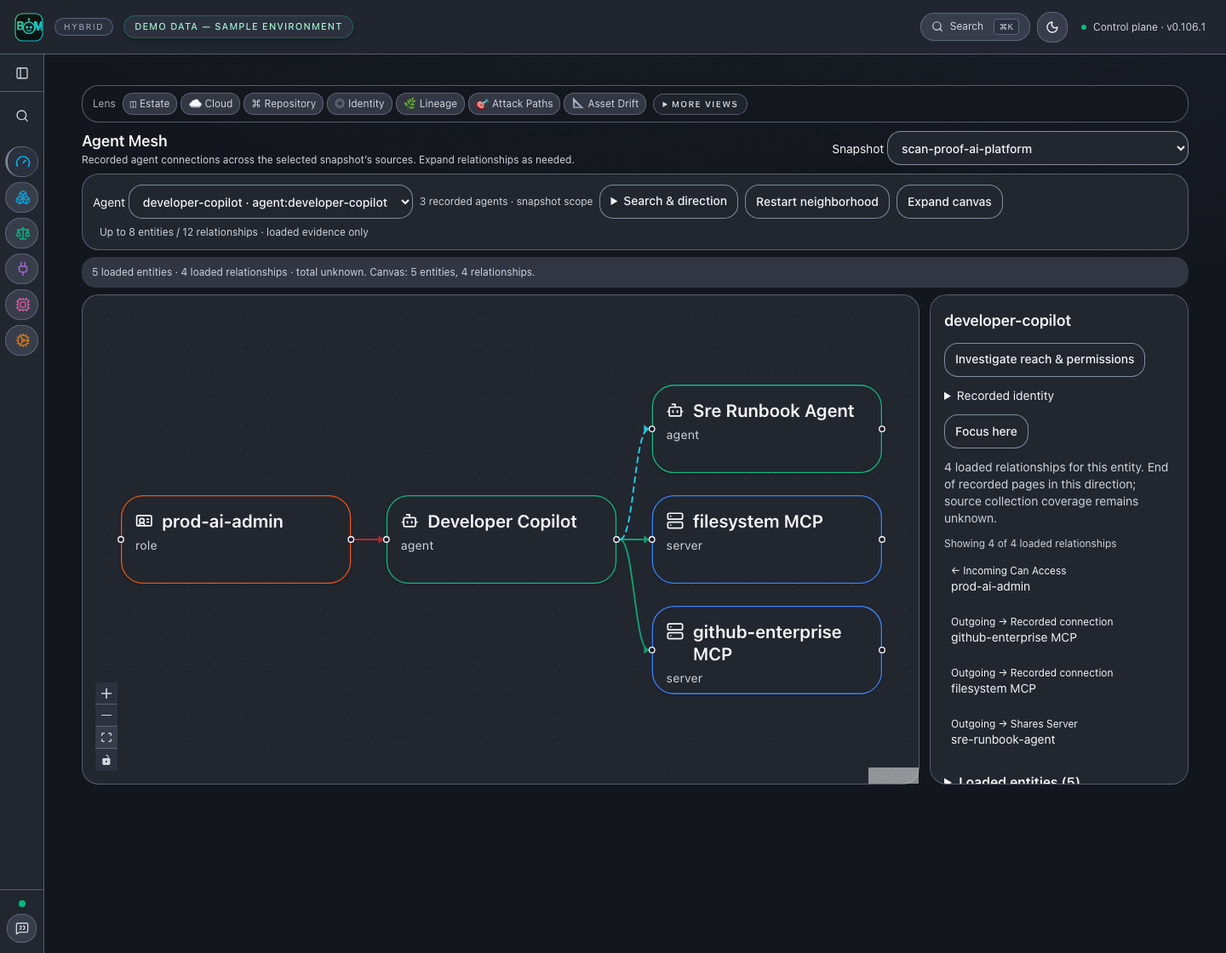
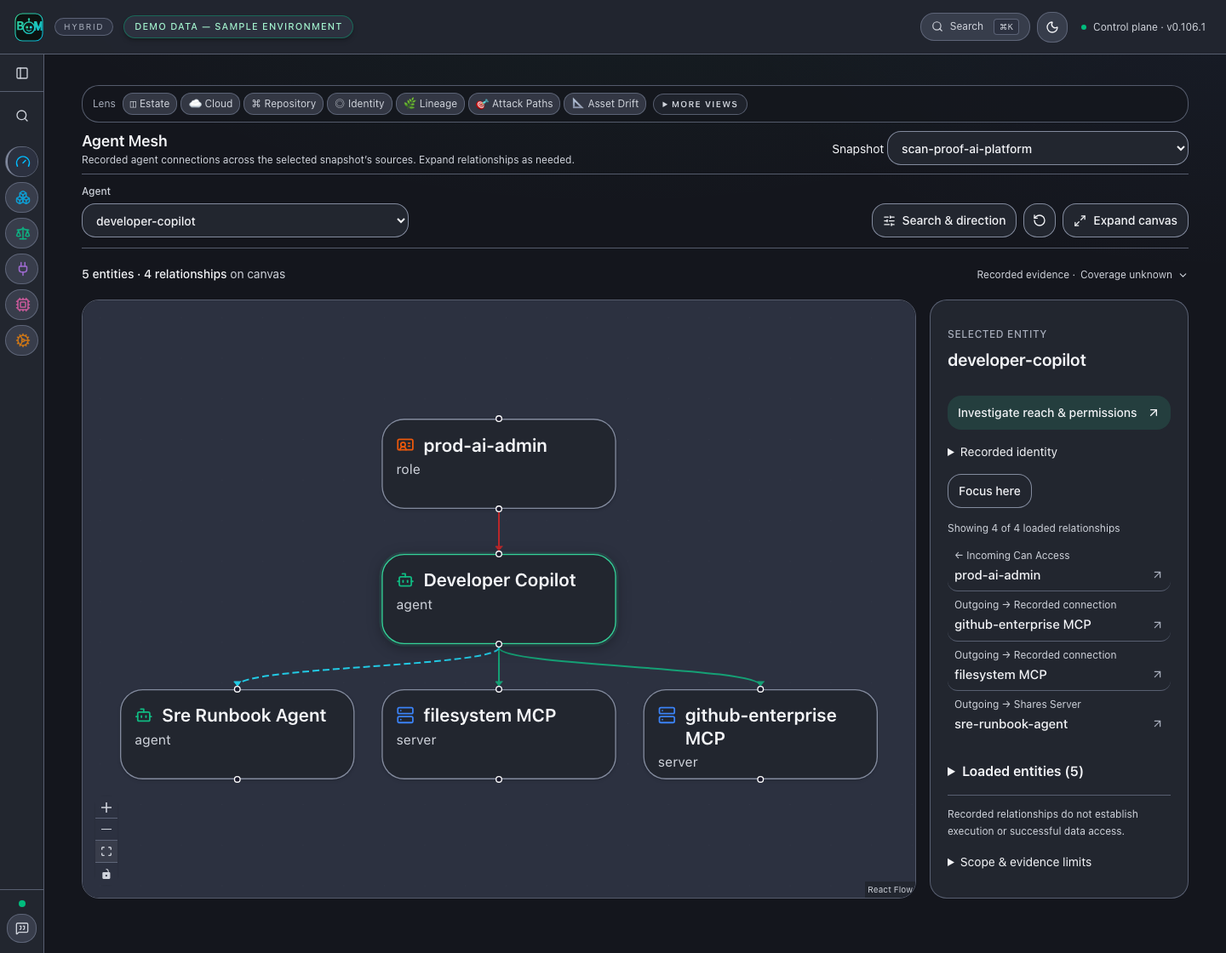
feat(ui): simplify context graph investigation and readability (#5494)
## Summary
- Reorganize Context Map around one agent toolbar, a readable canvas and
selected evidence. Move alternate lenses, search/direction and coverage
details into disclosures; keep unknown coverage visible.
- Use larger neutral node cards and a vertical layout for relationship
chains, with compact horizontal ranks for broad hubs. Preserve snapshot
scope, canonical identities, paging, branch focus and
recorded-versus-runtime evidence boundaries.
- Refresh the real application screenshot gallery and add a light-theme
Context Map view. Both neighborhood captures assert nine nodes, eight
edges and at least 14px rendered primary labels.

## Verification
- `npm run verify:toolchain`, `npm run typecheck`, affected ESLint,
production build.
- `npm test -- --run --maxWorkers=2`: 1,999 passed across 267 files.
- `CI=1 PLAYWRIGHT_PORT=39847 npm run test:e2e --
e2e/persisted-context.spec.ts e2e/lineage-graph-readability.spec.ts
--workers=2`: 34 passed across light/dark and desktop/mobile. Final
header/attribution detail: four affected browser cases passed again
after rebuild.
- `pytest tests/test_graph_api.py tests/test_graph_incident_api.py
tests/api/test_graph_scope_contract.py -q -n 2`: 157 passed.
- Changed-domain selection from `scripts/pytest_ci_plan.py targeted`
plus current CI smoke: 165 passed.
- `CAPTURE_PORT=39427 npm run capture:product-proof`: clean source
capture, reviewed both Context Map themes.
- `make preflight`, real pre-commit hooks and `git diff --check`.
[…]

diff --git a/ui/components/persisted-context-view.tsx b/ui/components/persisted-context-view.tsx
@@ -1,6 +1,7 @@
 "use client";
 
 import Link from "next/link";
+import { ArrowUpRight, ChevronDown, Maximize2, Minimize2, RotateCcw, SlidersHorizontal } from "lucide-react";
 import { useEffect, useMemo, useState } from "react";
 import { Background, BaseEdge, Controls, EdgeLabelRenderer, ReactFlow, getBezierPath, type EdgeProps, type Node, type NodeProps, Handle, Position } from "@xyflow/react";
 import "@xyflow/react/dist/style.css";
@@ -48,10 +49,10 @@ const contextEdgeTypes = { smoothstep: ContextRecordedEdge };
 
 function ContextOverviewNode({ data, selected, targetPosition, sourcePosition }: NodeProps<Node<LineageNodeData>>) {
   const Icon = entityIcon(data.nodeType);
-  return <div className={`h-[80px] w-[208px] rounded-xl border bg-surface px-3 py-3 shadow-sm ${selected ? "ring-2 ring-[var(--foreground)] ring-offset-2 ring-offset-[var(--surface)]" : ""}`} style={{ borderColor: NODE_COLOR_MAP[data.nodeType] ?? "var(--border-strong)" }}>
+  return <div className="context-map-node" data-selected={selected || undefined}>
     <Handle type="target" position={targetPosition ?? Position.Left} className="!h-1.5 !w-1.5" />
-    <div className="flex items-start gap-2"><Icon className="mt-0.5 h-4 w-4 shrink-0" aria-hidden="true" /><span data-testid="context-overview-title" className="min-w-0 overflow-hidden line-clamp-2 break-normal text-[16px] font-semibold leading-5" title={data.label}>{data.label}</span></div>
-    <p className="mt-1 truncate text-[11px] text-ink-secondary">{data.entityType?.replaceAll("_", " ") ?? data.nodeType}</p>
+    <div className="flex items-start gap-2"><Icon className="mt-0.5 h-4 w-4 shrink-0" style={{ color: NODE_COLOR_MAP[data.nodeType] }} aria-hidden="true" /><span data-testid="context-overview-title" className="min-w-0 overflow-hidden line-clamp-2 break-normal text-[16px] font-semibold leading-5" title={data.label}>{data.label}</span></div>
+    <p className="mt-1 truncate text-xs text-ink-secondary">{data.entityType?.replaceAll("_", " ") ?? data.nodeType}</p>
     <Handle type="source" position={sourcePosition ?? Position.Right} className="!h-1.5 !w-1.5" />
   </div>;
 }
@@ -105,15 +106,15 @@ function OwnedContextView({ owner }: { owner: string }) {
     return () => { active = false; controller.abort(); };
   }, [jobId, owner, params]);
   const scanId = snapshot?.jobId === jobId ? snapshot.scanId : "";
-  return <section aria-label="Persisted Context neighborhood" className="min-w-0 space-y-2 p-3">
-    <GraphLensSwitcher variant="compact" scanId={scanId || undefined} />
-    <header className="flex flex-wrap items-center justify-between gap-2"><div><h1 className="text-lg font-semibold">Context Map</h1><p className="text-xs text-ink-secondary">Recorded connections · investigate one neighborhood at a time</p></div>
-    <label className="block text-sm">Completed scan <select aria-label="Completed scan" className="context-action ml-2 max-w-full" value={jobId} onChange={event => setJobId(event.target.value)}>
+  return <section aria-label="Persisted Context neighborhood" className="context-workspace">
+    <header className="context-map-header"><div><h1 className="text-2xl font-semibold tracking-tight">Context Map</h1><p className="mt-1 text-sm text-ink-secondary">Select an entity or connection to inspect its evidence.</p></div>
+    <div className="flex min-w-0 flex-wrap items-end gap-3"><label className="context-field">Completed scan <select aria-label="Completed scan" className="context-action max-w-full" value={jobId} onChange={event => setJobId(event.target.value)}>
       {!jobs.length && <option value="">No completed scans</option>}
       {jobId && !jobs.some(job => job.job_id === jobId) && <option value={jobId}>{jobId}</option>}
       {jobs.map(job => <option key={job.job_id} value={job.job_id}>{job.job_id}</option>)}
     </select></label>
-    <div className="flex gap-2">{jobOffset > 0 && <button className="context-action" onClick={() => setJobOffset(offset => Math.max(0, offset - 24))}>Previous scans</button>}{jobOffset + 24 < jobTotal && <button className="context-action" onClick={() => setJobOffset(offset => offset + 24)}>Next scans</button>}</div></header>
+    <details className="context-popover"><summary className="context-action inline-flex cursor-pointer items-center gap-2">Other views <ChevronDown size={14} aria-hidden="true" /></summary><div className="context-popover-panel"><GraphLensSwitcher variant="compact" scanId={scanId || undefined} /></div></details></div>
+    {(jobOffset > 0 || jobOffset + 24 < jobTotal) && <div className="flex gap-2">{jobOffset > 0 && <button className="context-action" onClick={() => setJobOffset(offset => Math.max(0, offset - 24))}>Previous scans</button>}{jobOffset + 24 < jobTotal && <button className="context-action" onClick={() => setJobOffset(offset => offset + 24)}>Next scans</button>}</div>}</header>
     {error && <p role="alert">{error}</p>}
     {scanId ? <SnapshotNeighborhood key={JSON.stringify([owner, scanId])} scanId={scanId} owner={owner} /> : <p role="status">{jobId ? "Resolving snapshot…" : "Choose a completed scan to inspect persisted relationships."}</p>}
   </section>;
@@ -185,10 +186,13 @@ export function SnapshotNeighborhood({ scanId, owner, initialRootId = "" }: { sc
     if (arrow && recorded?.direction === "bidirectional") directed.markerStart = arrow;
     return directed;
   }), [flow.edges, display.edges, selectedEdge, selectedId, focusId]);
-  const overviewNodes = useMemo(() => flow.nodes.map(node => ({ ...node, selected: node.id === selectedId, ...(!focusId ? { type: "contextOverview" } : {}) })), [flow.nodes, focusId, selectedId]);
+  const overviewNodes = useMemo(() => flow.nodes.map(node => ({ ...node, selected: !selectedEdge && node.id === (selectedId || focus), ...(!focusId ? { type: "contextOverview" } : {}) })), [flow.nodes, focusId, selectedId, selectedEdge, focus]);
+  // Long relationship chains read at full size vertically. A broad hub uses
+  // horizontal ranks so its fan-out can use the taller canvas instead.
+  const wideHub = !mobile && display.nodes.some(node => display.edges.filter(edge => edge.source === node.id || edge.target === node.id).length >= 5);
   const layout = useGraphLayout("dagre", overviewNodes, directedEdges, { dagre: focusId
-    ? { direction: mobile ? "TB" : "LR", nodeWidth: 260, nodeHeight: 130, rankSep: mobile ? 64 : 128, nodeSep: 32, minSeparation: { width: 260, height: 130, gap: 32 } }
-    : { direction: mobile ? "TB" : "LR", nodeWidth: 208, nodeHeight: 80, rankSep: 32, nodeSep: 20, minSeparation: { width: 208, height: 80, gap: 20 } } });
+    ? { direction: "TB", nodeWidth: 260, nodeHeight: 130, rankSep: 40, nodeSep: 24, minSeparation: { width: 260, height: 130, gap: 24 } }
+    : { direction: wideHub ? "LR" : "TB", nodeWidth: 208, nodeHeight: 80, rankSep: 40, nodeSep: wideHub ? 8 : 24, minSeparation: { width: 208, height: 80, gap: wideHub ? 8 : 16 } } });
   const selected = graph.nodes.find(node => node.id === (selectedId || focus));
   const incident = graph.edges.filter(edge => edge.source === selected?.id || edge.target === selected?.id);
   const pages = graph.pages.filter(page => page.node_id === selected?.id);
@@ -196,40 +200,48 @@ export function SnapshotNeighborhood({ scanId, owner, initialRootId = "" }: { sc
   const edge = graph.edges.find(item => JSON.stringify([item.source, item.target, item.relationship]) === selectedEdge);
   const label = (id: string) => graph.nodes.find(node => node.id === id)?.label || id;
   return <>
-    <div className="flex flex-wrap items-center gap-2 rounded-xl border border-outline bg-surface p-3" aria-label="Neighborhood toolbar">
-      <label className="min-w-0 max-w-full text-sm">Agent <select aria-label="Agent scope" className="context-action max-w-full" value={rootId} disabled={selectorBusy} onChange={event => { setRootId(event.target.value); setSelectedId(null); setSelectedEdge(null); setFocusId(null); setExpandedCanvas(false); }}>
+    <div className="context-toolbar" aria-label="Neighborhood toolbar">
+      <label className="context-field min-w-0 flex-1 sm:max-w-sm">Agent <select aria-label="Agent scope" title={rootId} className="context-action w-full" value={rootId} disabled={selectorBusy} onChange={event => { setRootId(event.target.value); setSelectedId(null); setSelectedEdge(null); setFocusId(null); setExpandedCanvas(false); }}>
         {!selector?.agents.length && <option value={rootId}>{rootId || "No persisted agents"}</option>}
         {rootId && selector?.agents.length && !selector.agents.some(agent => agent.id === rootId) ? <option value={rootId}>{rootId}</option> : null}
-        {selector?.agents.map(agent => <option key={agent.id} value={agent.id}>{agent.label} · {agent.id}</option>)}
+        {selector?.agents.map(agent => <option key={agent.id} value={agent.id}>{agent.label}{selector.agents.some(other => other.id !== agent.id && other.label === agent.label) ? ` · ${agent.id}` : ""}</option>)}
       </select></label>
-      {selector && <span className="text-xs text-ink-secondary">{selector.pagination.total.toLocaleString()} {query ? "matching" : "recorded"} agents · snapshot scope</span>}
+
       {selector?.pagination.next_cursor && <button className="context-action" disabled={selectorBusy} onClick={() => setCursor(selector.pagination.next_cursor || undefined)}>Next agents</button>}
       {cursor && <button className="context-action" onClick={() => setCursor(undefined)}>First agents</button>}
-      <details className="relative"><summary className="context-action cursor-pointer">Search &amp; direction</summary><div className="mt-2 flex flex-wrap gap-2 rounded-lg border border-outline bg-surface p-3">
+      <details className="context-popover"><summary aria-label="Search & direction" className="context-action inline-flex cursor-pointer items-center gap-2"><SlidersHorizontal size={15} aria-hidden="true" /><span className="hidden sm:inline">Search &amp; direction</span><span className="sm:hidden">Filters</span></summary><div className="context-popover-panel space-y-3">
+      {selector && <p className="text-xs text-ink-secondary">{selector.pagination.total.toLocaleString()} {query ? "matching" : "recorded"} agents in this snapshot</p>}
       <label className="min-w-0 text-sm">Agent search<input aria-label="Agent search" className="context-action mt-1 block w-full" value={query} onChange={event => { setQuery(event.target.value); setCursor(undefined); }} placeholder="Search recorded agent names or IDs" /></label>
       <label className="text-sm">Direction<select aria-label="Relationship direction" className="context-action ml-2" value={direction} onChange={event => { setDirection(event.target.value as IncidentDirection); setSelectedId(null); setSelectedEdge(null); setFocusId(null); setExpandedCanvas(false); }}><option value="both">Incoming + outgoing</option><option value="in">Incoming</option><option value="out">Outgoing</option></select></label>
       </div></details>
       {focusId && <button className="context-action" onClick={() => { setFocusId(null); setSelectedEdge(null); }}>Back to neighborhood</button>}
-      <button className="context-action" disabled={graph.busy || !rootId} onClick={() => { setSelectedId(null); setSelectedEdge(null); setFocusId(null); graph.restart(); }}>Restart neighborhood</button>
-      <button className="context-action" aria-pressed={expandedCanvas} onClick={() => setExpandedCanvas(value => !value)}>{expandedCanvas ? "Compact canvas" : "Expand canvas"}</button><span className="ml-2 text-xs text-ink-secondary">{expandedCanvas ? "Up to 24 entities / 36 relationships" : "Up to 8 entities / 12 relationships"} · loaded evidence only</span>
+      <button className="context-action context-icon-action" aria-label="Restart neighborhood" title="Restart neighborhood" disabled={graph.busy || !rootId} onClick={() => { setSelectedId(null); setSelectedEdge(null); setFocusId(null); graph.restart(); }}><RotateCcw size={16} aria-hidden="true" /></button>
+      <button className="context-action inline-flex items-center gap-2" aria-pressed={expandedCanvas} onClick={() => setExpandedCanvas(value => !value)}>{expandedCanvas ? <Minimize2 size={15} aria-hidden="true" /> : <Maximize2 size={15} aria-hidden="true" />}{expandedCanvas ? "Compact canvas" : "Expand canvas"}</button>
     </div>
     {selectorError && <p role="alert">{selectorError}</p>}
     {!selectorBusy && !selector?.agents.length && !selectorError && <p>No persisted agent nodes match this search. Repository and SBOM evidence remains available in Repository or Lineage.</p>}
     {graph.error && <p role="alert">{graph.error}</p>}
-    <p role="status" className="rounded-lg bg-surface-muted px-3 py-2 text-xs leading-5 text-ink-secondary">{graph.busy ? "Loading relationships… " : ""}{graph.nodes.length} loaded entities · {graph.edges.length} loaded relationships · total unknown. Canvas: {display.nodes.length} entities, {display.edges.length} relationships.</p>
+    <div role="status" className="context-scope-status">
+      <span>{graph.busy ? "Loading relationships… " : ""}<strong className="font-medium text-[var(--foreground)]">{display.nodes.length} entities · {display.edges.length} relationships</strong><span className="hidden sm:inline"> on canvas</span></span>
+      <details className="context-popover"><summary className="inline-flex cursor-pointer items-center gap-1.5 text-xs"><span className="hidden sm:inline">Recorded evidence ·</span><span>Coverage unknown</span> <ChevronDown size={13} aria-hidden="true" /></summary><div className="context-popover-panel text-sm leading-6">
+        <p>{graph.nodes.length} loaded entities · {graph.edges.length} loaded relationships · total unknown. Canvas: {display.nodes.length} entities, {display.edges.length} relationships.</p>
+        <p className="mt-2">{expandedCanvas ? "Up to 24 entities / 36 relationships" : "Up to 8 entities / 12 relationships"} · loaded evidence only. Collection coverage is not established by a complete page.</p>
+      </div></details>
+    </div>
     {graph.pages.some(page => page.completeness.missing_endpoint_count > 0) && <p>Some recorded endpoints are unavailable; this neighborhood is incomplete.</p>}
     {graph.capped && <p>Loaded evidence limit reached (240 relationships / 10 pages). Restart or choose another agent to continue.</p>}
-    <div className="grid min-w-0 gap-3 lg:grid-cols-[minmax(0,1fr)_19rem]">
-      <div aria-label="Persisted neighborhood canvas" className="relative h-[32rem] lg:h-[36rem] min-w-0 rounded-xl border border-outline bg-surface">
-        {!!layout.nodes.length && <ReactFlow deleteKeyCode={null} key={JSON.stringify([focus, focusId, mobile, layout.nodes.map(node => node.id), layout.pending])} nodes={layout.nodes} edges={layout.edges} nodeTypes={contextNodeTypes} edgeTypes={contextEdgeTypes} fitView fitViewOptions={{ padding: 0.08, minZoom: focusId ? (mobile ? 0.75 : 0.85) : 0.75, maxZoom: 1 }} minZoom={0.15} nodesDraggable={false}
+    <div className="context-map-panels">
+      <div aria-label="Persisted neighborhood canvas" className="context-map-canvas">
+        {!!layout.nodes.length && <ReactFlow deleteKeyCode={null} key={JSON.stringify([focus, focusId, mobile, layout.nodes.map(node => node.id), layout.pending])} nodes={layout.nodes} edges={layout.edges} nodeTypes={contextNodeTypes} edgeTypes={contextEdgeTypes} fitView fitViewOptions={{ padding: 0.06, minZoom: 0.75, maxZoom: 1 }} minZoom={0.15} nodesDraggable={false}
           onNodeClick={(_, node) => { setSelectedId(node.id); setSelectedEdge(null); }} onEdgeClick={(_, selected) => { setSelectedEdge(JSON.stringify([selected.source, selected.target, selected.data?.relationship])); }}>
-          <Background color={BACKGROUND_COLOR} gap={BACKGROUND_GAP} /><Controls className={CONTROLS_CLASS} />
+          <Background color={BACKGROUND_COLOR} gap={BACKGROUND_GAP * 1.5} size={0.5} /><Controls className={CONTROLS_CLASS} />
         </ReactFlow>}
       </div>
-      <aside aria-label="Agent neighborhood inspector" className="max-h-[32rem] lg:max-h-[36rem] overflow-y-auto min-w-0 space-y-3 rounded-xl border border-outline bg-surface p-4">
-        <h2 className="break-words text-lg font-semibold">{edge ? recordedLabel(String(edge.relationship)) : selected?.label || "Select an entity"}</h2>
+      <aside aria-label="Agent neighborhood inspector" className="context-map-inspector">
+        <div className="context-inspector-heading"><p className="text-xs font-medium uppercase tracking-wider text-ink-tertiary">{edge ? "Relationship evidence" : "Selected entity"}</p>
+        <h2 className="break-words text-xl font-semibold">{edge ? recordedLabel(String(edge.relationship)) : selected?.label || "Select an entity"}</h2></div>
         {edge ? <><p className="break-words">{label(edge.source)} {edge.direction === "bidirectional" ? "↔" : edge.direction === "directed" ? "→" : "—"} {label(edge.target)}</p><p>Recorded direction: {edge.direction}</p><p className="break-words">Evidence basis: {String(edge.evidence.evidence_tier ?? edge.evidence.evidence_basis ?? edge.evidence.basis ?? "unknown")}</p><p className="break-words">Runtime outcome: {String(edge.evidence.runtime_outcome ?? "unknown")}</p><button className="context-action" onClick={() => setSelectedEdge(null)}>Close inspection</button></> : selected ? <>
-          <Link className="context-action inline-block" href={buildGraphInvestigationHref({ scanId, rootId: selected.id })}>Investigate reach &amp; permissions</Link>
+          <Link className="context-investigate" href={buildGraphInvestigationHref({ scanId, rootId: selected.id })}>Investigate reach &amp; permissions <ArrowUpRight size={16} aria-hidden="true" /></Link>
           <details><summary className="cursor-pointer text-sm">Recorded identity</summary><p className="text-sm">{String(selected.entity_type).replaceAll("_", " ")}</p><code className="block break-all text-xs">{selected.id}</code><AdminAssessment attributes={selected.attributes} /></details>
           <div className="flex flex-wrap gap-2"><button className="context-action" onClick={() => setFocusId(selected.id)}>Focus here</button>
             {!lastPage && <button className="context-action" disabled={graph.busy || graph.capped || graph.stale} onClick={() => void graph.load(selected.id)}>Expand connections</button>}
@@ -237,7 +249,6 @@ export function SnapshotNeighborhood({ scanId, owner, initialRootId = "" }: { sc
             {!!pages.length && selected.id !== rootId && <button className="context-action" onClick={() => { graph.collapse(selected.id); setFocusId(null); }}>Collapse connections</button>}
           </div>
           {!!pages.length && selected.id !== rootId && <p className="text-xs">Collapse also clears later expansions.</p>}
-          <p className="text-sm text-ink-secondary">{incident.length} loaded relationships for this entity. {lastPage && !lastPage.next_cursor ? "End of recorded pages in this direction; source collection coverage remains unknown." : "Additional relationships not counted."}</p>
           <LoadedRelationshipList key={selected.id} nodeId={selected.id} incident={incident} label={label} onSelect={setSelectedEdge} />
         </> : <p>Choose a persisted agent to begin.</p>}
         <details><summary className="cursor-pointer font-semibold">Loaded entities ({graph.nodes.length})</summary>
@@ -247,7 +258,8 @@ export function SnapshotNeighborhood({ scanId, owner, initialRootId = "" }: { sc
             return items.length ? <section key={kind} aria-label={`Loaded ${kind}`} className="py-1"><h3 className="text-xs font-semibold capitalize text-ink-secondary">{kind.replaceAll("_", " ")} · {items.length} loaded</h3>{items.map(node => <button className="context-connection" key={node.id} onClick={() => { setSelectedId(node.id); setSelectedEdge(null); }}><span className="block break-words">{node.label}</span><code className="break-all text-xs">{node.id}</code></button>)}</section> : null;
           })}</div>
         </details>
-        <details><summary className="cursor-pointer text-sm">Scope &amp; evidence limits</summary><p className="break-all text-xs">Snapshot: {scanId}</p><p className="mt-2 text-sm text-ink-secondary">Permission and exploitability are not assessed by these pages. Shared infrastructure does not prove agents communicated. Page completeness is not estate or collection completeness.</p></details>
+        <p className="border-t border-outline pt-3 text-xs leading-5 text-ink-secondary">Recorded relationships do not establish execution or successful data access.</p>
+        <details><summary className="cursor-pointer text-sm">Scope &amp; evidence limits</summary><p className="my-2 text-xs leading-5 text-ink-secondary">{lastPage && !lastPage.next_cursor ? "End of recorded pages in this direction; source collection coverage remains unknown." : "Additional relationships not counted."}</p><p className="break-all text-xs">Snapshot: {scanId}</p><p className="mt-2 text-sm text-ink-secondary">Permission and exploitability are not assessed by these pages. Shared infrastructure does not prove agents communicated. Page completeness is not estate or collection completeness.</p></details>
       </aside>
     </div>
   </>;
@@ -261,10 +273,10 @@ export function LoadedRelationshipList({ nodeId, incident, label, onSelect }: {
   const shown = Math.min(visibleCount, incident.length);
   return <div>
     <p className="mb-2 text-xs text-ink-secondary" role="status">Showing {shown} of {incident.length} loaded relationships</p>
-    <div className="max-h-64 space-y-2 overflow-y-auto">{incident.slice(0, visibleCount).map(item =>
-      <button key={JSON.stringify([item.source, item.target, item.relationship])} className="context-connection" onClick={() => onSelect(JSON.stringify([item.source, item.target, item.relationship]))}>
-        <span className="block text-xs">{item.direction === "bidirectional" ? "Bidirectional ↔" : item.direction === "directed" ? (item.source === nodeId ? "Outgoing →" : "← Incoming") : "Related ·"} {recordedLabel(String(item.relationship))}</span>
-        <span className="block break-words">{label(item.source === nodeId ? item.target : item.source)}</span>
+    <div className="max-h-80 divide-y divide-outline overflow-y-auto">{incident.slice(0, visibleCount).map(item =>
+      <button key={JSON.stringify([item.source, item.target, item.relationship])} className="context-connection group" onClick={() => onSelect(JSON.stringify([item.source, item.target, item.relationship]))}>
+        <span className="mb-1 block text-xs text-ink-secondary">{item.direction === "bidirectional" ? "Bidirectional ↔" : item.direction === "directed" ? (item.source === nodeId ? "Outgoing →" : "← Incoming") : "Related ·"} {recordedLabel(String(item.relationship))}</span>
+        <span className="flex items-center justify-between gap-3 text-[15px] font-medium"><span className="min-w-0 break-words">{label(item.source === nodeId ? item.target : item.source)}</span><ArrowUpRight className="shrink-0 text-ink-tertiary group-hover:text-[var(--foreground)]" size={15} aria-hidden="true" /></span>
       </button>)}</div>
     <div className="mt-2 flex flex-wrap gap-2">
       {shown < incident.length && <button className="context-action" onClick={() => setVisibleCount(count => count + 24)}>Show {Math.min(24, incident.length - shown)} more relationships</button>}

diff --git a/ui/app/globals.css b/ui/app/globals.css
@@ -893,3 +893,44 @@ main > div {
 .context-facts { @apply space-y-2 rounded-lg border border-[var(--border-subtle)] p-3 text-sm; }
 .context-facts > div { @apply flex flex-wrap justify-between gap-2; }
 .context-facts dt { @apply text-[var(--text-tertiary)]; }
+
+/* Context investigation: one toolbar, a quiet canvas, and selected evidence. */
+.context-shell { --border-subtle: color-mix(in srgb, var(--foreground) 16%, transparent); --border-strong: color-mix(in srgb, var(--foreground) 28%, transparent); }
+.context-source-tabs { @apply flex flex-wrap gap-5 border-b border-[var(--border-subtle)] px-3; }
+.context-source-tab { @apply min-h-10 border-b-2 border-transparent py-2 text-sm text-ink-secondary transition-colors hover:text-[var(--foreground)] focus-visible:outline-2 focus-visible:outline-emerald-500; }
+.context-source-tab[aria-pressed="true"] { @apply border-emerald-500 font-semibold text-[var(--foreground)]; }
+.context-workspace { @apply min-w-0 px-3 pb-3; }
+.context-map-header { @apply flex flex-wrap items-center justify-between gap-4 py-5; }
+.context-field { @apply flex flex-col gap-1.5 text-xs font-medium text-ink-secondary; }
+.context-toolbar { @apply flex min-w-0 flex-wrap items-end gap-2 border-y border-[var(--border-subtle)] py-3; }
+.context-toolbar .context-field { @apply sm:mr-auto; }
+.context-icon-action { @apply inline-flex items-center justify-center px-2.5; }
+.context-popover { @apply relative; }
+.context-popover > summary { @apply list-none; }
+.context-popover > summary::-webkit-details-marker { display: none; }
+.context-popover-panel { @apply absolute right-0 top-full z-30 mt-2 w-80 max-w-[calc(100vw-3.5rem)] rounded-xl border border-[var(--border-subtle)] bg-[var(--surface)] p-4 text-[var(--foreground)] shadow-xl; }
+.context-scope-status { @apply flex flex-wrap items-center justify-between gap-2 py-3 text-sm text-ink-secondary; }
+.context-map-panels { @apply grid min-w-0 gap-4 lg:grid-cols-[minmax(0,1fr)_19rem]; }
+.context-map-canvas { @apply relative min-w-0 overflow-hidden rounded-xl border border-[var(--border-subtle)]; height: 34rem; }
+.context-map-canvas .react-flow { background: var(--surface-elevated); }
+.context-map-canvas .react-flow__attribution { background: var(--surface); color: var(--text-secondary); }
+.context-map-canvas .react-flow__attribution a { color: inherit; }
+.context-map-inspector { @apply min-w-0 space-y-4 overflow-y-auto rounded-xl border border-[var(--border-subtle)] bg-[var(--surface)] p-5; max-height: none; }
+.context-map-node { @apply h-20 w-52 rounded-xl border border-[var(--border-strong)] bg-[var(--surface)] px-3 py-3 text-[var(--foreground)] shadow-sm; }
+.context-map-node[data-selected] { border-color: var(--accent); box-shadow: 0 0 0 2px var(--accent-soft), 0 3px 12px var(--shadow-color); }
+.context-investigate { @apply inline-flex w-full items-center justify-between gap-2 rounded-lg px-3 py-2.5 text-sm font-medium focus-visible:outline-2 focus-visible:outline-emerald-500; color: var(--foreground); background: var(--accent-soft); }
+.context-investigate:hover { background: color-mix(in srgb, var(--accent) 24%, transparent); }
+@media (min-width: 1024px) {
+  .context-map-canvas { height: clamp(30rem, calc(100dvh - 24rem), 44rem); }
+  .context-map-inspector { max-height: clamp(30rem, calc(100dvh - 24rem), 44rem); }
+}
+@media (max-width: 639px) {
+  .context-map-header { @apply gap-3 py-4; }
+  .context-map-header h1 { @apply text-xl; }
+  .context-map-header > div { @apply w-full; }
+  .context-map-header .context-field { @apply min-w-0 flex-1; }
+  .context-toolbar > .context-field { flex-basis: 100%; }
+  .context-popover-panel { @apply fixed left-7 right-7 top-auto w-auto; }
+}
+
+.context-inspector-heading { @apply sticky -top-5 z-10 -mx-5 space-y-2 bg-[var(--surface)] px-5 py-3; }

diff --git a/ui/e2e/persisted-context.spec.ts b/ui/e2e/persisted-context.spec.ts
@@ -43,6 +43,20 @@ for (const theme of ["light", "dark"] as const) for (const width of [1440, 390])
     expect(legacyRequests).toBe(0);
     expect(fullReportRequests).toBe(0);
     await expect(inspector).toContainText("Bidirectional ↔ Recorded connection");
+    await expect(page.locator(`[data-id="${root}"] .context-map-node`)).toHaveAttribute("data-selected", "true");
+    const views = page.getByText("Other views", { exact: true });
+    await expect(views).toBeVisible();
+    const viewMenu = views.locator("..");
+    await expect(viewMenu.getByRole("button", { name: /Cloud/ })).toBeHidden();
+    await views.click();
+    await expect(viewMenu.getByRole("button", { name: /Cloud/ })).toBeVisible();
+    await views.click();
+    await expect(page.getByText("Coverage unknown", { exact: true })).toBeVisible();
+    await inspector.getByRole("button", { name: /Bidirectional.*Recorded connection.*File server/ }).click();
+    await expect(inspector).toContainText("Evidence basis: configured");
+    await expect(inspector).toContainText("Runtime outcome: unknown");
+    await inspector.getByRole("button", { name: "Close inspection", exact: true }).click();
+
     // Focusing the root changes card dimensions without changing node IDs.
     await inspector.getByRole("button", { name: "Focus here", exact: true }).click();
     await expect(page.getByTestId("context-overview-title")).toHaveCount(0);
@@ -171,6 +185,7 @@ test("client navigation to another explicit snapshot replaces the Context worksp
   await page.evaluate(() => window.history.pushState(null, "", "/graph?lens=context&scan=second"));
   await expect(inspector.getByRole("link", { name: "Investigate reach & permissions" })).toHaveAttribute("href", /scan=second&/);
   expect(incidentScans).toEqual(["first", "second"]);
+  await page.getByText("Other views", { exact: true }).click();
   await page.getByRole("button", { name: /Cloud/ }).click();
   await expect(page).toHaveURL(/scan=second&lens=cloud/);
 });

diff --git a/ui/components/context-lens-view.tsx b/ui/components/context-lens-view.tsx
@@ -315,10 +315,10 @@ export function LateralPanel({
 
 export function ContextLensView() {
   const [persisted, setPersisted] = useState(true);
-  return <><div className="flex flex-wrap gap-2 border-b border-[var(--border-subtle)] px-3 py-2" aria-label="Context evidence source">
-    <button className="context-action" aria-pressed={persisted} onClick={() => setPersisted(true)}>Persisted snapshot</button>
-    <button className="context-action" aria-pressed={!persisted} onClick={() => setPersisted(false)}>Scan-derived (unpersisted)</button>
-  </div>{persisted ? <PersistedContextView /> : <><p className="p-3 text-sm text-[var(--text-secondary)]">Scan-derived evidence rebuilt from the report; this mode does not page the persisted graph.</p><ScanDerivedContextView /></>}</>;
+  return <div className="context-shell"><div className="context-source-tabs" aria-label="Context evidence source">
+    <button className="context-source-tab" aria-pressed={persisted} onClick={() => setPersisted(true)}>Persisted snapshot</button>
+    <button className="context-source-tab" aria-pressed={!persisted} onClick={() => setPersisted(false)}>Scan-derived (unpersisted)</button>
+  </div>{persisted ? <PersistedContextView /> : <><p className="p-3 text-sm text-[var(--text-secondary)]">Scan-derived evidence rebuilt from the report; this mode does not page the persisted graph.</p><ScanDerivedContextView /></>}</div>;
 }
 
 function ScanDerivedContextView() {

diff --git a/README.md b/README.md
@@ -25,11 +25,11 @@
 </p>
 
 <p align="center">
-  <a href="docs/images/context-map-live.png"><img src="docs/images/context-map-live.png" alt="Recorded agent connections linking a role, agents, MCP servers, tool, credential reference, package and finding" width="960"></a>
+  <a href="docs/images/context-map-live.png"><picture><source media="(prefers-color-scheme: light)" srcset="docs/images/context-map-light-live.png"><img src="docs/images/context-map-live.png" alt="Recorded agent connections linking a role, agents, MCP servers, tool, credential reference, package and finding" width="960"></picture></a>
 </p>
 
 agent-bom finds the AI agents, MCP servers, packages and credentials in a repository, workstation or cloud account, matches packages against vulnerability advisories, and connects findings to recorded agent, tool and credential relationships.
-Run it as a CLI, in CI, as an MCP server for your assistant, or as a self-hosted dashboard. A recorded relationship is evidence to investigate; it does not prove execution or data access. The map above uses labeled sample data.
+Run it as a CLI, in CI, as an MCP server for your assistant, or as a self-hosted dashboard. A recorded relationship is evidence to investigate; it does not prove execution or data access. The map above uses labeled sample data. [Light view](docs/images/context-map-light-live.png) · [Dark view](docs/images/context-map-live.png).
 
 **Start where you work:** [scan a repository](#quick-start), [run the shared dashboard](#self-host-in-your-environment), or [connect your assistant](docs/MCP_WORKFLOWS.md). Apache-2.0; the control plane runs in your own environment.
 
